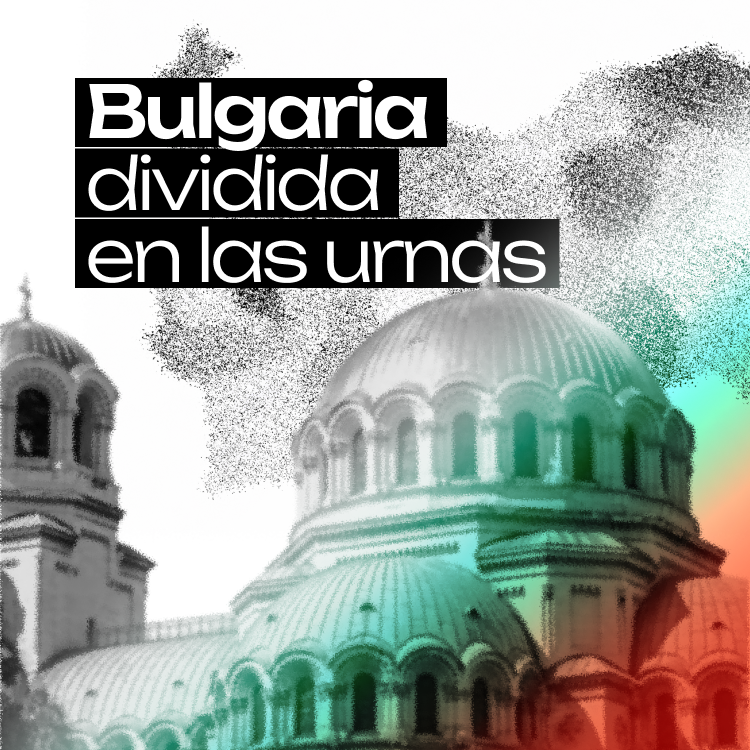
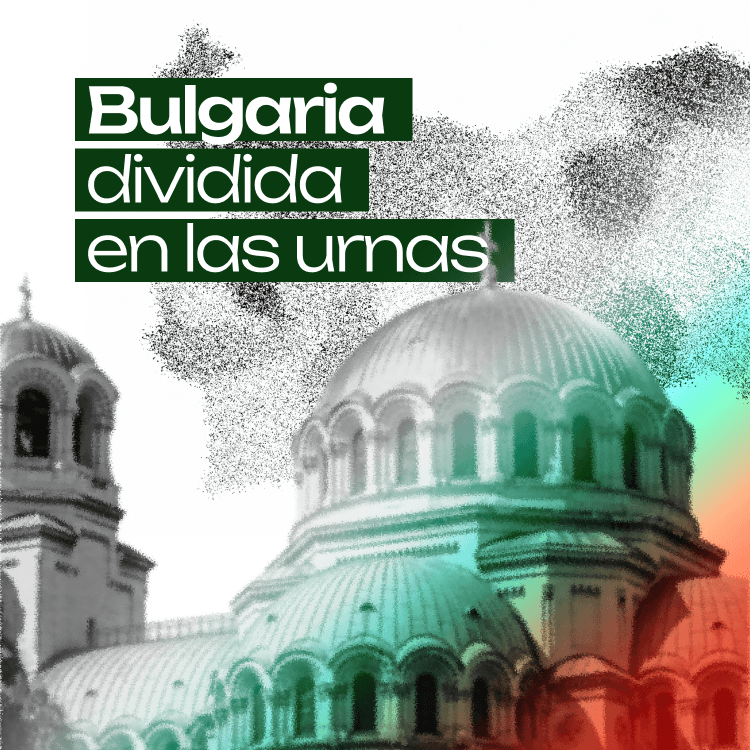
Actualiza portada y añade nuevos articulos

Changed region(s): [[0.092, 0.092, 0.7667, 0.3987]]

diff --git a/src/content/analisis/preocupaciones-espanoles.md b/src/content/analisis/preocupaciones-espanoles.md
@@ -1,0 +1,16 @@
+---
+titulo: "¿Qué temas preocupan a los españoles?"
+tituloSeo: "¿Qué temas preocupan a los españoles? | CAESIUS"
+sumario: "Un futuro análisis sobre las principales preocupaciones de los españoles y cómo cambian según la edad y la generación."
+autores: [ana-garcia]
+fecha: 2026-10-28
+temas: [sociedad]
+portada: "/oct3.png"
+borrador: false
+idioma: es
+figura:
+  src: "/oct3.png"
+  alt: "Ilustración editorial sobre las preocupaciones de la sociedad española."
+---
+
+Este análisis estará disponible próximamente.

diff --git a/src/content/analisis/vivimos-peor-que-nuestros-padres.md b/src/content/analisis/vivimos-peor-que-nuestros-padres.md
@@ -1,0 +1,15 @@
+---
+titulo: "¿Vivimos peor que la generación de nuestros padres?"
+tituloSeo: "¿Vivimos peor que nuestros padres? | CAESIUS"
+sumario: "Comparamos las condiciones de vida de distintas generaciones para entender cómo han cambiado los salarios, la vivienda y las oportunidades."
+autores: [ana-garcia]
+fecha: 2026-10-29
+temas: [sociedad]
+portada: "/oct2.png"
+borrador: false
+figura:
+  src: "/oct2.png"
+  alt: "Collage fotográfico que representa distintas generaciones."
+---
+
+Este análisis estará disponible próximamente.

diff --git a/src/content/analisis/sociedad-solitaria.md b/src/content/analisis/sociedad-solitaria.md
@@ -1,0 +1,16 @@
+---
+titulo: "¿Somos una sociedad cada vez más solitaria?"
+tituloSeo: "¿Somos una sociedad cada vez más solitaria? | CAESIUS"
+sumario: "¿Estamos más solos que antes? Un futuro análisis sobre la soledad, los cambios demográficos y nuestras relaciones sociales."
+autores: [ana-garcia]
+fecha: 2026-10-27
+temas: [sociedad]
+portada: "/oct4.png"
+borrador: false
+idioma: es
+figura:
+  src: "/oct4.png"
+  alt: "Persona caminando sola por un paisaje."
+---
+
+Este análisis estará disponible próximamente.

diff --git a/src/content/autores/ana-garcia.md b/src/content/autores/ana-garcia.md
@@ -1,0 +1,10 @@
+---
+nombre: Ana García
+rol: Fundador de Caesius
+iniciales: AG
+enlaces:
+  - etiqueta: GitHub
+    url: https://github.com/byanagarez
+---
+
+Co-fundadora de Caesius.

diff --git a/src/content/autores/giulio-consoli.md b/src/content/autores/giulio-consoli.md
@@ -7,4 +7,4 @@ enlaces:
     url: https://github.com/GiulioConsoli
 ---
 
-Fundador de Caesius.
+Co-fundador de Caesius.
